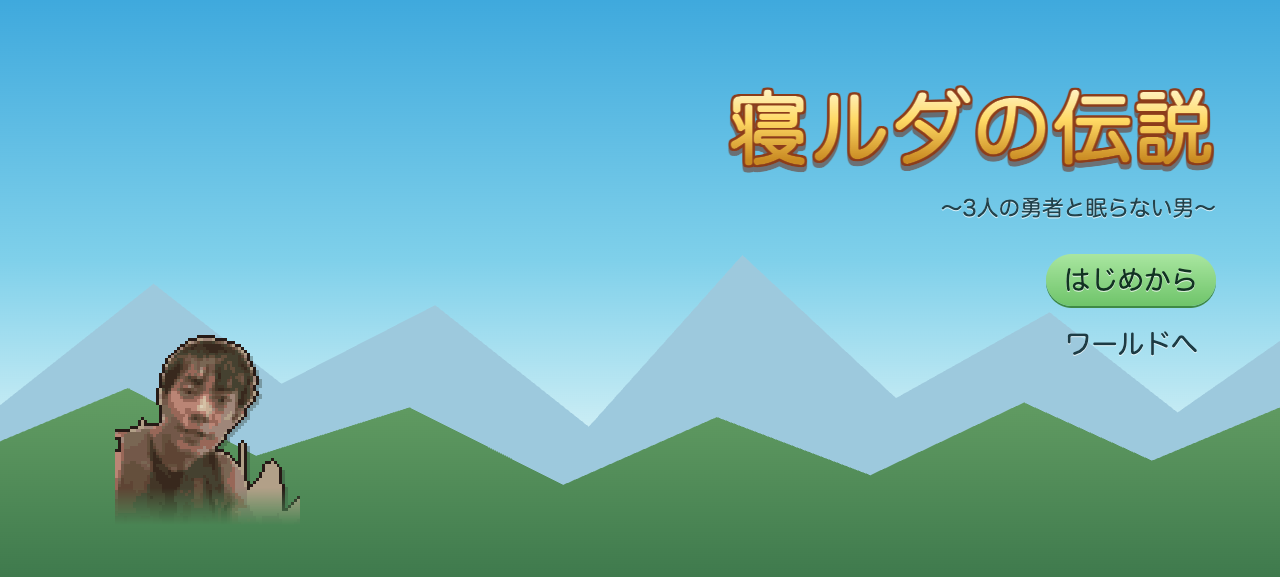
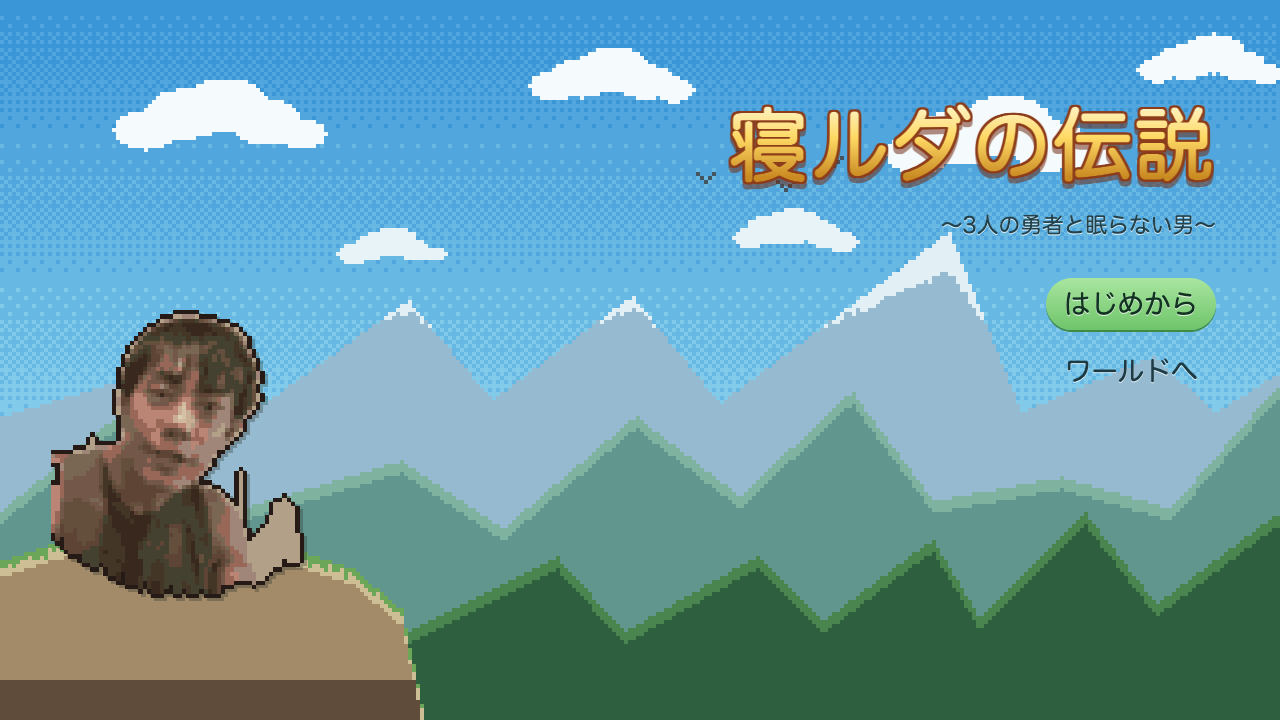
feat: タイトル背景をドット絵に差し替え (#63)
CSS のグラデーションと clip-path で作っていた背景を、320x180 で描いた
ドット絵の拡大表示に替える。勇者がドット絵なので、背景も同じ粒でないと
画の統一感が出なかったため。

背景は scripts/generate-title-bg.py で生成する。空は6段に丸めた色を
Bayer 4x4 でディザし、遠景の雪山・中景・前景・左下の崖という4層で
奥行きを出す。使用色は17色、4.5KB。

勇者は元写真の切り口が下端に直線で残っていたので、裾を絞る形に削って
輪郭を描き直した。背景の崖に立つ形になり、下端をぼかす mask は不要に
なったため外した。

背景は縦横比を保って敷く (fill だと縦長の画面で雲が縦に伸びる)。
はみ出す分は切り、勇者の立つ左下の崖が必ず残るよう左下を基準にする。

Claude-Session: https://claude.ai/code/session_014DZn1YdxLFZbbMiJQnzrg7

diff --git a/src/ui/title/TitleScreen.module.css b/src/ui/title/TitleScreen.module.css
@@ -1,73 +1,40 @@
 /*
- * 元ネタのタイトル画面と同じ構図 (左下に勇者 / 右にロゴとメニュー) を、
- * 画像アセットを増やさず CSS のグラデーションと clip-path だけで作る。
- * 狙っている雰囲気がチープさなので、作り込むより記号的な山と空で足りる。
+ * 元ネタのタイトル画面と同じ構図 (左下に勇者 / 右にロゴとメニュー)。
+ * 背景は CSS のグラデーションではなく 320x180 のドット絵を拡大して敷く。
+ * 勇者がドット絵なので、背景も同じ粒でないと画の統一感が出ないため。
+ * 生成は scripts/generate-title-bg.py。
  */
 .title {
   position: absolute;
   inset: 0;
   overflow: hidden;
+  background: #6fbce4;
   font-family: 'Hiragino Maru Gothic ProN', 'Yu Gothic', system-ui, sans-serif;
 }
 
-.sky {
+.background {
   position: absolute;
   inset: 0;
-  background: linear-gradient(#3fa9dd 0%, #7fd0ea 45%, #cdeef5 75%, #e7f7f2 100%);
+  width: 100%;
+  height: 100%;
+  /*
+   * 縦横比は保つ (fill だと縦長の画面で雲が縦に伸びて絵が崩れる)。
+   * はみ出す分は切り、勇者の立つ左下の崖が必ず残るよう左下を基準にする。
+   */
+  object-fit: cover;
+  object-position: left bottom;
+  image-rendering: pixelated;
 }
 
-/* 奥の雪山。薄い青で遠さを出す。 */
-.mountains {
-  position: absolute;
-  inset: 38% 0 0;
-  background: #9dc9dd;
-  clip-path: polygon(
-    0% 100%,
-    0% 52%,
-    12% 18%,
-    22% 46%,
-    34% 24%,
-    46% 58%,
-    58% 10%,
-    70% 50%,
-    82% 26%,
-    92% 54%,
-    100% 34%,
-    100% 100%
-  );
-}
-
-/* 手前の緑の尾根。 */
-.ridge {
-  position: absolute;
-  inset: 58% 0 0;
-  background: linear-gradient(#6ea86a, #3f7a4d);
-  clip-path: polygon(
-    0% 100%,
-    0% 44%,
-    10% 22%,
-    20% 50%,
-    32% 30%,
-    44% 62%,
-    56% 34%,
-    68% 58%,
-    80% 28%,
-    90% 52%,
-    100% 30%,
-    100% 100%
-  );
-}
-
-/* 左下の勇者。ドット絵なので拡大は最近傍で。 */
+/* 左下の勇者。背景の崖の上に立たせる。 */
 .hero {
   position: absolute;
-  left: 9%;
-  bottom: 8%;
+  left: 4%;
+  /* 足元が背景の崖の天面に着く位置。 */
+  bottom: 17%;
   width: auto;
-  height: 34vh;
+  height: min(40vh, 36vw);
   image-rendering: pixelated;
-  /* 元写真の切り口が下端に直線で残るので、尾根へ向けて消す。 */
-  mask-image: linear-gradient(to bottom, #000 78%, transparent 97%);
   filter: drop-shadow(3px 3px 0 #2c3a3155);
 }
 

diff --git a/src/ui/title/TitleScreen.tsx b/src/ui/title/TitleScreen.tsx
@@ -26,15 +26,13 @@ export function TitleScreen(): React.JSX.Element {
 
   return (
     <div className={styles.title}>
-      <div className={styles.sky} />
-      <div className={styles.mountains} />
-      <div className={styles.ridge} />
+      <img className={styles.background} src="/title/bg.png" alt="" aria-hidden="true" />
       <img
         className={styles.hero}
         src="/title/hero.png"
         alt="崖の上に立つ勇者"
-        width={63}
-        height={67}
+        width={58}
+        height={66}
       />
 
       <div className={styles.menu}>

diff --git a/scripts/generate-title-bg.py b/scripts/generate-title-bg.py
@@ -1,0 +1,205 @@
+from PIL import Image
+import math, random
+
+W, H = 320, 180
+im = Image.new('RGB', (W, H))
+px = im.load()
+
+BAYER = [
+    [0, 8, 2, 10],
+    [12, 4, 14, 6],
+    [3, 11, 1, 9],
+    [15, 7, 13, 5],
+]
+
+def lerp(a, b, t):
+    return tuple(round(x + (y - x) * t) for x, y in zip(a, b))
+
+# --- 空: 上から下へのグラデーションを Bayer でディザして retro 感を出す
+SKY_TOP = (58, 150, 214)
+SKY_MID = (120, 198, 232)
+SKY_LOW = (198, 232, 240)
+SKY_STEPS = 6
+sky_band = []
+for i in range(SKY_STEPS):
+    t = i / (SKY_STEPS - 1)
+    sky_band.append(lerp(SKY_TOP, SKY_MID, t / 0.55) if t < 0.55
+                    else lerp(SKY_MID, SKY_LOW, (t - 0.55) / 0.45))
+
+for y in range(H):
+    t = y / (H - 1)
+    pos = t * (SKY_STEPS - 1)
+    i = min(SKY_STEPS - 2, int(pos))
+    frac = pos - i
+    base, nxt = sky_band[i], sky_band[i + 1]
+    for x in range(W):
+        # 段の境目だけ 4x4 の閾値で2色を混ぜ、帯の切れ目をぼかす
+        th = BAYER[y % 4][x % 4] / 16
+        px[x, y] = nxt if frac > th else base
+
+def fill_poly(points, color, y_from=0):
+    """多角形を走査線で塗る。ドット絵なのでアンチエイリアスはしない。"""
+    ys = [p[1] for p in points]
+    for y in range(max(y_from, min(ys)), min(H, max(ys) + 1)):
+        xs = []
+        n = len(points)
+        for i in range(n):
+            x1, y1 = points[i]
+            x2, y2 = points[(i + 1) % n]
+            if y1 == y2:
+                continue
+            if min(y1, y2) <= y < max(y1, y2):
+                xs.append(x1 + (y - y1) * (x2 - x1) / (y2 - y1))
+        xs.sort()
+        for i in range(0, len(xs) - 1, 2):
+            for x in range(max(0, int(xs[i])), min(W, int(xs[i + 1]) + 1)):
+                px[x, y] = color
+
+def ridge_points(seed, base_y, amp, step, jag):
+    """尾根の折れ線。山ごとに高さと幅を変え、同じ形が並ばないようにする。"""
+    rnd = random.Random(seed)
+    pts = [(0, H), (0, base_y)]
+    x = 0
+    up = True
+    while x < W:
+        if up:
+            dx = rnd.randint(step, int(step * 2.1))
+            # たまに低い山を挟んで、峰の高さを揃えない
+            high = rnd.random() < 0.55
+            y = base_y - (rnd.randint(int(amp * 0.62), amp) if high
+                          else rnd.randint(int(amp * 0.2), int(amp * 0.5)))
+        else:
+            dx = rnd.randint(step // 2, step)
+            y = base_y + rnd.randint(-jag // 2, jag)
+        x = min(W, x + dx)
+        pts.append((x, max(4, y)))
+        up = not up
+    pts.append((W, base_y))
+    pts.append((W, H))
+    return pts
+
+# --- 遠景の雪山
+FAR = (150, 186, 208)
+SNOW = (226, 240, 246)
+far = ridge_points(7, 104, 46, 30, 8)
+fill_poly(far, FAR)
+
+# 雪冠: 各列の稜線の高さを見て、高いところほど厚く白を積む
+top_y = {}
+for x in range(W):
+    for y in range(H):
+        if px[x, y] == FAR:
+            top_y[x] = y
+            break
+if top_y:
+    peak = min(top_y.values())
+    for x, ty in top_y.items():
+        # 峰から 26px 下までを雪の範囲とし、高い列ほど深く塗る
+        depth = int((1 - (ty - peak) / 26) * 11)
+        for d in range(max(0, depth)):
+            if ty + d < H and px[x, ty + d] == FAR:
+                px[x, ty + d] = SNOW
+    # 雪の下端をギザつかせて、境界が直線にならないようにする
+    rnd = random.Random(99)
+    for x in range(W):
+        if x not in top_y:
+            continue
+        for y in range(H - 1, 0, -1):
+            if px[x, y] == SNOW:
+                if rnd.random() < 0.5:
+                    px[x, y] = FAR
+                break
+
+# --- 中景の青緑の尾根
+mid = ridge_points(21, 128, 34, 28, 7)
+fill_poly(mid, (96, 150, 142), y_from=60)
+for x in range(W):
+    for y in range(60, H):
+        if px[x, y] == (96, 150, 142):
+            for d in range(3):
+                if y + d < H and px[x, y + d] == (96, 150, 142):
+                    px[x, y + d] = (128, 178, 160)
+            break
+
+# --- 前景の濃い緑
+near = ridge_points(43, 152, 26, 22, 6)
+fill_poly(near, (46, 96, 64), y_from=90)
+for x in range(W):
+    for y in range(90, H):
+        if px[x, y] == (46, 96, 64):
+            for d in range(3):
+                if y + d < H and px[x, y + d] == (46, 96, 64):
+                    px[x, y + d] = (74, 132, 78)
+            break
+
+# --- 左下の崖: 勇者を立たせる足場
+CLIFF = (163, 138, 104)
+CLIFF_TOP = (206, 190, 150)
+CLIFF_DARK = (96, 76, 58)
+CLIFF_GRASS = (108, 166, 88)
+cliff = [(0, H), (0, 140), (16, 135), (44, 133), (70, 136), (88, 142), (100, 152), (106, H)]
+fill_poly(cliff, CLIFF, y_from=120)
+for x in range(0, 110):
+    for y in range(120, H):
+        if px[x, y] == CLIFF:
+            for d in range(4):
+                if y + d < H and px[x, y + d] == CLIFF:
+                    px[x, y + d] = CLIFF_TOP
+            break
+# 岩の天面の上端に草を乗せる (元ネタの崖と同じ作り)
+rnd_g = random.Random(5)
+for x in range(0, 110):
+    for y in range(120, H):
+        if px[x, y] == CLIFF_TOP:
+            for d in range(rnd_g.choice((1, 2, 2, 3))):
+                if y + d < H and px[x, y + d] == CLIFF_TOP:
+                    px[x, y + d] = CLIFF_GRASS
+            break
+
+# 崖の下側に影を落として厚みを出す
+for x in range(0, 110):
+    col = [y for y in range(130, H) if px[x, y] in (CLIFF, CLIFF_TOP)]
+    if col:
+        for y in col[-10:]:
+            if px[x, y] == CLIFF:
+                px[x, y] = CLIFF_DARK
+
+# --- 雲: 角の立った塊で描く
+def cloud(cx, cy, scale, color=(245, 250, 252)):
+    blobs = [(-14, 2, 7), (-6, -2, 9), (4, -4, 10), (13, 0, 8), (20, 3, 6)]
+    for bx, by, br in blobs:
+        r = max(2, int(br * scale))
+        ox, oy = cx + int(bx * scale), cy + int(by * scale)
+        for y in range(oy - r, oy + r + 1):
+            for x in range(ox - r, ox + r + 1):
+                if 0 <= x < W and 0 <= y < H:
+                    if (x - ox) ** 2 + ((y - oy) * 1.6) ** 2 <= r * r:
+                        if y < 118:
+                            px[x, y] = color
+
+cloud(52, 30, 1.15)
+cloud(150, 20, 0.9)
+cloud(246, 36, 1.25)
+cloud(300, 16, 0.8)
+cloud(196, 58, 0.7, (232, 243, 248))
+cloud(96, 62, 0.6, (232, 243, 248))
+
+# --- 鳥: v の字を数羽
+for bx, by in ((176, 44), (186, 38), (196, 46), (208, 40)):
+    for dx, dy in ((-2, -1), (-1, 0), (0, 1), (1, 0), (2, -1)):
+        x, y = bx + dx, by + dy
+        if 0 <= x < W and 0 <= y < H:
+            px[x, y] = (68, 84, 96)
+
+# 全体を1つのパレットへ寄せてドット絵として締める
+# 使っている色をそのまま残す。MEDIANCUT に任せると岩の色が緑へ寄るため、
+# 出現色をパレットとして与えて量子化する。
+used = sorted({px[x, y] for y in range(H) for x in range(W)})
+pal = Image.new('P', (1, 1))
+flat = [v for c in used for v in c][: 256 * 3]
+pal.putpalette(flat + [0] * (768 - len(flat)))
+im = im.quantize(palette=pal, dither=Image.NONE).convert('RGB')
+print('colors', len(used))
+im.save('/private/tmp/claude-501/-Users-uozumikouhei-orca-workspaces-the-legend-of-nelda-feat-title-page/d6ab8b5b-0522-4bde-bde5-3086212f2ba9/scratchpad/bg.png')
+im.resize((W * 4, H * 4), Image.NEAREST).save('/private/tmp/claude-501/-Users-uozumikouhei-orca-workspaces-the-legend-of-nelda-feat-title-page/d6ab8b5b-0522-4bde-bde5-3086212f2ba9/scratchpad/bg-preview.png')
+print('ok')
